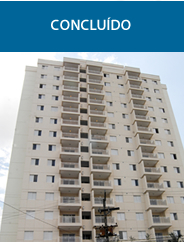
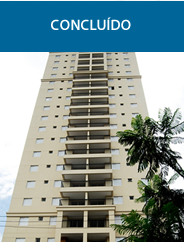
Atualização Fevereiro
Yang - Fotos e cronograma
Presence - Fotos e cronograma
Ituxi - Textos
Bertioga - Inclusão
Flecha - Inclusão

diff --git a/breveLancamento_int05.html b/breveLancamento_int05.html
@@ -2,7 +2,7 @@
 <html xmlns="http://www.w3.org/1999/xhtml">
 <head>
 <meta http-equiv="Content-Type" content="text/html; charset=utf-8" />
-<title>ARCHTEC | Breve Lançamento – Fagundes Filho</title>
+<title>ARCHTEC | Breve Lançamento – Flexa</title>
 <meta name="author" content="Webbox" />
 <meta name="description" content="ARCHTEC apresenta: Fagundes Filho, no bairro da Saúde (SP). Aptos com 2 dorms, há 800 metros do metrô São Judas. Rua Fagundes  Filho, 852, Saúde. " />
 <meta name="keywords" content="ARCHTECH, Archtech, ARQUITECH, Arquitech, engenharia, construção, construção civil, construções, construtora, incorporadora, incorporações, lançamento, lançamentos, empreendimento, empreendimentos, obra, obras, Fagundes Filho, Saúde, São Paulo, 2 dorms, metrô São Judas, São Judas, Rua Fagundes  Filho. " />
@@ -79,7 +79,7 @@ function MM_openBrWindow(theURL,winName,features) { //v2.0
 <p class="t12 cinza margem18-esq">A ARCHTECH está sempre inovando, com lançamentos que seguem tendências e novidades internacionais e dão um tom contemporâneo à construção civil no país. </p>
 <p class="t12 cinza margem18-esq">Confira o que vem por aí:</p>
 
-<p class="t25 azul-escuro" style="margin-top:30px">ITUXI</p>
+<p class="t25 azul-escuro" style="margin-top:30px">FLECHA</p>
 <div class="linha-vermelha" style="margin-top:-12px; margin-bottom:24px"></div>
 
 
@@ -87,21 +87,22 @@ function MM_openBrWindow(theURL,winName,features) { //v2.0
     <div><img src="images/titulos/titGaleria01.gif" width="382" height="27" alt="" /></div>
     <div id="main">
     <ul class="gallery clearfix">
-    <div class="box-gal"><img src="images/decos/img30.jpg" width="380" height="224" alt="" /></div>
+    <div class="box-gal"><img src="images/decos/img36.jpg" width="380" height="224" alt="" /></div>
     
     
     </ul>
     </div>
     
     
-    <p class="t10 cinza" style="margin-top:23px;"><span class="t12 negrito">SAÚDE - SP</span><br />
-1 e 2 dorms<br />
-350 metros do Metrô Saúde<br />
+    <p class="t10 cinza" style="margin-top:23px;"><span class="t12 negrito">JARDIM PRUDÊNCIA - SP</span><br />
+      2 dorms<br />
 <br>
-Rua Ituxi, 126 - Saúde</p>
+Rua das Flechas, 167
+Jd. Prudência
+</p>
 </div>
 <div class="desloca-dir" style="width:308px">
-	<div><img src="images/decos/img31.jpg" width="188" height="140" alt="" /></div>
+	<div><img src="images/decos/img35.jpg" width="188" height="140" alt="" /></div>
 <div style="height:170px"></div>
 <p class="t11 azul-escuro negrito" style="margin-top:10px"> </p>
 <p class="t11 cinza" style="margin-bottom:3px"> </p>
@@ -139,16 +140,16 @@ Rua Ituxi, 126 - Saúde</p>
     	<div><img src="images/titulos/titLocaliza01.jpg" width="382" height="24" alt="" /></div>
         <div class="mapa">
         
-        <iframe width="380" height="224" frameborder="0" scrolling="no" marginheight="0" marginwidth="0" src="https://www.google.com.br/maps/ms?msa=0&amp;msid=211801331599896846726.0004f7065f605e9a930e4&amp;ie=UTF8&amp;t=m&amp;ll=-23.618015,-46.642317&amp;spn=0.002202,0.004066&amp;z=17&amp;output=embed"></iframe>
+        <iframe src="https://www.google.com/maps/embed?pb=!1m18!1m12!1m3!1d7309.604804894548!2d-46.67218760000006!3d-23.647246499999984!2m3!1f0!2f0!3f0!3m2!1i1024!2i768!4f13.1!3m3!1m2!1s0x94ce507788210d67%3A0x57a47897b82ae6d0!2sR.+das+Flechas%2C+167+-+Vila+Santa+Catarina%2C+S%C3%A3o+Paulo+-+SP!5e0!3m2!1spt-BR!2sbr!4v1423162378153" width="380" height="224" frameborder="0" style="border:0"></iframe>
         
-        <div class="endMapa">Rua Ituxi, 126 – Saúde – São Paulo - SP</div>
+        <div class="endMapa">Rua das Flechas, 167 – Jardim Prudência – São Paulo - SP</div>
         </div>
     </div>
     
     <div class="desloca-dir" style="width:280px; margin-top:17px; padding-top:13px; padding-bottom:13px; padding-left:25px; padding-right:17px; background-color:#FFF; border:solid 1px #CDCDCD;">
     <p class="t14 cinza">ENTRE EM CONTATO:</p>
     
-    <iframe src="formularios/5_formularioContato.html" width="276px" height="262px" frameborder="0" scrolling="no"></iframe>
+    <iframe src="formularios/7_formularioContato.html" width="276px" height="262px" frameborder="0" scrolling="no"></iframe>
     
    	</div>
     

diff --git a/breveLancamento_int06.html b/breveLancamento_int06.html
@@ -2,7 +2,7 @@
 <html xmlns="http://www.w3.org/1999/xhtml">
 <head>
 <meta http-equiv="Content-Type" content="text/html; charset=utf-8" />
-<title>ARCHTEC | Breve Lançamento – Fagundes Filho</title>
+<title>ARCHTEC | Breve Lançamento – Bertioga</title>
 <meta name="author" content="Webbox" />
 <meta name="description" content="ARCHTEC apresenta: Fagundes Filho, no bairro da Saúde (SP). Aptos com 2 dorms, há 800 metros do metrô São Judas. Rua Fagundes  Filho, 852, Saúde. " />
 <meta name="keywords" content="ARCHTECH, Archtech, ARQUITECH, Arquitech, engenharia, construção, construção civil, construções, construtora, incorporadora, incorporações, lançamento, lançamentos, empreendimento, empreendimentos, obra, obras, Fagundes Filho, Saúde, São Paulo, 2 dorms, metrô São Judas, São Judas, Rua Fagundes  Filho. " />
@@ -79,7 +79,7 @@ function MM_openBrWindow(theURL,winName,features) { //v2.0
 <p class="t12 cinza margem18-esq">A ARCHTECH está sempre inovando, com lançamentos que seguem tendências e novidades internacionais e dão um tom contemporâneo à construção civil no país. </p>
 <p class="t12 cinza margem18-esq">Confira o que vem por aí:</p>
 
-<p class="t25 azul-escuro" style="margin-top:30px">ITUXI</p>
+<p class="t25 azul-escuro" style="margin-top:30px">BERTIOGA</p>
 <div class="linha-vermelha" style="margin-top:-12px; margin-bottom:24px"></div>
 
 
@@ -94,11 +94,12 @@ function MM_openBrWindow(theURL,winName,features) { //v2.0
     </div>
     
     
-    <p class="t10 cinza" style="margin-top:23px;"><span class="t12 negrito">SAÚDE - SP</span><br />
-1 e 2 dorms<br />
-350 metros do Metrô Saúde<br />
+    <p class="t10 cinza" style="margin-top:23px;"><span class="t12 negrito">PRAÇA DA ÁRVORE - SP</span><br />
+      2 DORMS <br />
+300 metros do Metrô Praça da Árvore<br />
 <br>
-Rua Ituxi, 126 - Saúde</p>
+Rua Bertioga,291 - Praça da Árvore
+</p>
 </div>
 <div class="desloca-dir" style="width:308px">
 	<div><img src="images/decos/img31.jpg" width="188" height="140" alt="" /></div>
@@ -139,16 +140,15 @@ Rua Ituxi, 126 - Saúde</p>
     	<div><img src="images/titulos/titLocaliza01.jpg" width="382" height="24" alt="" /></div>
         <div class="mapa">
         
-        <iframe width="380" height="224" frameborder="0" scrolling="no" marginheight="0" marginwidth="0" src="https://www.google.com.br/maps/ms?msa=0&amp;msid=211801331599896846726.0004f7065f605e9a930e4&amp;ie=UTF8&amp;t=m&amp;ll=-23.618015,-46.642317&amp;spn=0.002202,0.004066&amp;z=17&amp;output=embed"></iframe>
-        
-        <div class="endMapa">Rua Ituxi, 126 – Saúde – São Paulo - SP</div>
+<iframe src="https://www.google.com/maps/embed?pb=!1m18!1m12!1m3!1d3655.8200693967215!2d-46.63432390000003!3d-23.610785100000005!2m3!1f0!2f0!3f0!3m2!1i1024!2i768!4f13.1!3m3!1m2!1s0x94ce5a4c8826e06b%3A0x9a7ff4014ace0f06!2sR.+Bertioga%2C+291+-+Ch%C3%A1cara+Inglesa%2C+S%C3%A3o+Paulo+-+SP!5e0!3m2!1spt-BR!2sbr!4v1423225767701" width="380" height="224" frameborder="0" style="border:0"></iframe>        
+        <div class="endMapa">Rua Bertioga, 291 – Praça da Árvore – São Paulo - SP</div>
         </div>
     </div>
     
     <div class="desloca-dir" style="width:280px; margin-top:17px; padding-top:13px; padding-bottom:13px; padding-left:25px; padding-right:17px; background-color:#FFF; border:solid 1px #CDCDCD;">
     <p class="t14 cinza">ENTRE EM CONTATO:</p>
     
-    <iframe src="formularios/5_formularioContato.html" width="276px" height="262px" frameborder="0" scrolling="no"></iframe>
+    <iframe src="formularios/6_formularioContato.html" width="276px" height="262px" frameborder="0" scrolling="no"></iframe>
     
    	</div>
     

diff --git a/breveLancamento.html b/breveLancamento.html
@@ -67,17 +67,41 @@
 à construção civil no país.</p> 
 <p class="t12 cinza margem18-esq">Confira o que vem por aí:</p>
 <div title="" class="desloca-esq margem18-esq margem18-dir botao" style="width:175px; border:solid 1px #E5E5E5" onclick="location.href='breveLancamento_int03.html'">
-  <div><a href="breveLancamento_int04.html"><img src="images/decos/img28.jpg" width="175" height="220" alt="" /></a></div>
+  <div><a href="breveLancamento_int06.html"><img src="images/decos/img33.jpg" width="175" height="220" alt="" /></a></div>
     <div style="padding-top:7px; padding-bottom:7px; padding-left:10px; padding-right:10px">
-        <p class="t10 cinza negrito">SAÚDE | SP</p>
+        <p class="t10 cinza negrito">PRAÇA DA ÁRVORE | SP</p>
         <p class="t10 cinza">
-        2 e 3 DORMS <br />
-350 metros do Metrô Saúde<br />
-<br /><br />
+        2 DORMS <br />
+300 metros do Metrô Praça da Árvore<br />
+<br />
 
 
-        <div><a href="breveLancamento_int04.html"><img src="images/botoes/botSaibaMais02.png" width="82" height="18" alt="" /></a></div>
+        <div><a href="breveLancamento_int06.html"><img src="images/botoes/botSaibaMais02.png" width="82" height="18" alt="" /></a></div>
   </div>    
+</div>
+<div title="" class="desloca-esq margem18-dir botao" style="width:175px; border:solid 1px #E5E5E5" onclick="location.href='breveLancamento_int03.html'">
+  <div><a href="breveLancamento_int05.html"><img src="images/decos/img32.jpg" width="175" height="220" alt="" /></a></div>
+  <div style="padding-top:7px; padding-bottom:7px; padding-left:10px; padding-right:10px">
+    <p class="t10 cinza negrito">JD PRUDÊNCIA | SP</p>
+    <p class="t10 cinza"> 2 DORMS <br />
+      <br />
+      <br />
+      <br />
+    </p>
+    <div><a href="breveLancamento_int05.html"><img src="images/botoes/botSaibaMais02.png" width="82" height="18" alt="" /></a></div>
+  </div>
+</div>
+<div title="" class="desloca-esq  margem18-dir botao" style="width:175px; border:solid 1px #E5E5E5" onclick="location.href='breveLancamento_int03.html'">
+  <div><a href="breveLancamento_int04.html"><img src="images/decos/img34.jpg" width="175" height="220" alt="" /></a></div>
+  <div style="padding-top:7px; padding-bottom:7px; padding-left:10px; padding-right:10px">
+    <p class="t10 cinza negrito">SAÚDE | SP</p>
+    <p class="t10 cinza"> 1 e 2 DORMS <br />
+      350 metros do Metrô Saúde<br />
+      <br />
+      <br />
+    </p>
+    <div><a href="breveLancamento_int04.html"><img src="images/botoes/botSaibaMais02.png" width="82" height="18" alt="" /></a></div>
+  </div>
 </div>
 
 <div class="clear"></div>

diff --git a/Lancamento_int02.html b/Lancamento_int02.html
@@ -142,9 +142,20 @@ function MM_openBrWindow(theURL,winName,features) { //v2.0
 <ul class="gallery clearfix">
     
 <div class="pontoZero">
-<div class="anima" id="anima" style="display:none"><a href="images/galeria/presence/obra/129.jpg" rel="prettyPhoto[fotosObra]" title="Dezembro/14"><img src="images/botoes/b1_.png" alt="" width="153" height="18" usemap="#Map" border="0" />
+<div class="anima" id="anima" style="display:none"><a href="images/galeria/presence/obra/142.jpg" rel="prettyPhoto[fotosObra]" title="Janeiro/15"><img src="images/botoes/b1_.png" alt="" width="153" height="18" usemap="#Map" border="0" />
 </a>
 
+<a href="images/galeria/presence/obra/143.jpg" rel="prettyPhoto[fotosObra]" title="Janeiro/15"></a>
+<a href="images/galeria/presence/obra/144.jpg" rel="prettyPhoto[fotosObra]" title="Janeiro/15"></a>
+<a href="images/galeria/presence/obra/145.jpg" rel="prettyPhoto[fotosObra]" title="Janeiro/15"></a>
+<a href="images/galeria/presence/obra/146.jpg" rel="prettyPhoto[fotosObra]" title="Janeiro/15"></a>
+<a href="images/galeria/presence/obra/147.jpg" rel="prettyPhoto[fotosObra]" title="Janeiro/15"></a>
+<a href="images/galeria/presence/obra/148.jpg" rel="prettyPhoto[fotosObra]" title="Janeiro/15"></a>
+<a href="images/galeria/presence/obra/149.jpg" rel="prettyPhoto[fotosObra]" title="Janeiro/15"></a>
+<a href="images/galeria/presence/obra/150.jpg" rel="prettyPhoto[fotosObra]" title="Janeiro/15"></a>
+<a href="images/galeria/presence/obra/151.jpg" rel="prettyPhoto[fotosObra]" title="Janeiro/15"></a>
+
+<a href="images/galeria/presence/obra/129.jpg" rel="prettyPhoto[fotosObra]" title="Dezembro/14"></a>
 <a href="images/galeria/presence/obra/130.jpg" rel="prettyPhoto[fotosObra]" title="Dezembro/14"></a>
 <a href="images/galeria/presence/obra/131.jpg" rel="prettyPhoto[fotosObra]" title="Dezembro/14"></a>
 <a href="images/galeria/presence/obra/132.jpg" rel="prettyPhoto[fotosObra]" title="Dezembro/14"></a>
@@ -301,7 +312,7 @@ function MM_openBrWindow(theURL,winName,features) { //v2.0
 
 
     <map name="Map" id="Map">
-      <area shape="rect" coords="62,2,151,17" href="images/galeria/presence/obra/Cronograma_Dez14_Presence.png" rel="prettyPhoto[cronograma]" title="Cronograma Dezembro/14"/>
+      <area shape="rect" coords="62,2,151,17" href="images/galeria/presence/obra/Cronograma_Jan15_Presence.png" rel="prettyPhoto[cronograma]" title="Cronograma Janeiro/15"/>
     </map>
 
 

diff --git a/breveLancamento_int02.html b/breveLancamento_int02.html
@@ -143,9 +143,17 @@ Lazer completo em mais de 1.750 m&sup2; de terreno</p>
 <ul class="gallery clearfix">
     
 <div class="pontoZero">
-<div class="anima" id="anima" style="display:none"><a href="images/galeria/yang/obra/50.jpg" rel="prettyPhoto[fotosObra]" title="Dezembro/14"><img src="images/botoes/b1_.png" alt="" width="153" height="18" usemap="#Map" border="0" />
+<div class="anima" id="anima" style="display:none"><a href="images/galeria/yang/obra/59.jpg" rel="prettyPhoto[fotosObra]" title="Janeiro/15"><img src="images/botoes/b1_.png" alt="" width="153" height="18" usemap="#Map" border="0" />
 </a>
 
+<a href="images/galeria/yang/obra/60.jpg" rel="prettyPhoto[fotosObra]" title="Janeiro/15"></a>
+<a href="images/galeria/yang/obra/61.jpg" rel="prettyPhoto[fotosObra]" title="Janeiro/15"></a>
+<a href="images/galeria/yang/obra/62.jpg" rel="prettyPhoto[fotosObra]" title="Janeiro/15"></a>
+<a href="images/galeria/yang/obra/63.jpg" rel="prettyPhoto[fotosObra]" title="Janeiro/15"></a>
+<a href="images/galeria/yang/obra/64.jpg" rel="prettyPhoto[fotosObra]" title="Janeiro/15"></a>
+<a href="images/galeria/yang/obra/65.jpg" rel="prettyPhoto[fotosObra]" title="Janeiro/15"></a>
+
+<a href="images/galeria/yang/obra/50.jpg" rel="prettyPhoto[fotosObra]" title="Dezembro/14"></a>
 <a href="images/galeria/yang/obra/51.jpg" rel="prettyPhoto[fotosObra]" title="Dezembro/14"></a>
 <a href="images/galeria/yang/obra/52.jpg" rel="prettyPhoto[fotosObra]" title="Dezembro/14"></a>
 <a href="images/galeria/yang/obra/53.jpg" rel="prettyPhoto[fotosObra]" title="Dezembro/14"></a>
@@ -210,7 +218,7 @@ Lazer completo em mais de 1.750 m&sup2; de terreno</p>
 <a href="images/galeria/yang/obra/07.jpg" rel="prettyPhoto[fotosObra]" title="Maio/14"></a>
 
     <map name="Map" id="Map">
-      <area shape="rect" coords="62,2,151,17" href="images/galeria/yang/obra/Cronograma_Dez14_Yang.png" rel="prettyPhoto[cronograma]" title="Cronograma Dezembro/14"/>
+      <area shape="rect" coords="62,2,151,17" href="images/galeria/yang/obra/Cronograma_Jan15_Yang.png" rel="prettyPhoto[cronograma]" title="Cronograma Janeiro/15"/>
     </map>
 
 

diff --git a/prontoParaMorar.html b/prontoParaMorar.html
@@ -93,7 +93,7 @@
 <div class="desloca-esq" style="width:151px"><img src="images/decos/img7.png" width="151" height="26" alt="" /></div>
 <div class="desloca-esq botao" title="" style="width:204px; margin-right:20px" onclick="location.href='breveLancamento.html'"><img src="images/decos/img13.jpg" width="204" height="263" alt="" /><div style="margin-top:13px"><a href="breveLancamento.html"><img src="images/botoes/botSaibaMais05.png" width="81" height="18" alt="" /></a></div></div>
 <div class="desloca-esq botao" title="" style="width:204px; margin-right:17px" onclick="location.href='lancamento.html'"><img src="images/decos/img8.jpg" width="204" height="263" alt="" /><div style="margin-top:13px"><a href="lancamento.html"><img src="images/botoes/botSaibaMais03.png" width="81" height="18" alt="" /></a></div></div>
-<div class="desloca-esq botao" title="" style="width:204px" onclick="location.href='concluido.html'"><img src="images/decos/img15.jpg" width="204" height="263" alt="" /><div style="margin-top:13px"><a href="concluido.html"><img src="images/botoes/botSaibaMais06.png" width="81" height="18" alt="" /></a></div></div>
+<div class="desloca-esq botao" title="" style="width:204px" onclick="location.href='concluido.html'"><img src="images/decos/img10.jpg" width="204" height="263" alt="" /><div style="margin-top:13px"><a href="concluido.html"><img src="images/botoes/botSaibaMais06.png" width="81" height="18" alt="" /></a></div></div>
 <div class="clear"></div>
 
 

diff --git a/formularios/6_formularioContato.html b/formularios/6_formularioContato.html
@@ -1,0 +1,30 @@
+<!DOCTYPE html PUBLIC "-//W3C//DTD XHTML 1.0 Transitional//EN" "http://www.w3.org/TR/xhtml1/DTD/xhtml1-transitional.dtd">
+<html xmlns="http://www.w3.org/1999/xhtml">
+<head>
+<meta http-equiv="Content-Type" content="text/html; charset=Iso-8859-1" />
+<title></title>
+<link href="../css/style.css" rel="stylesheet" type="text/css" />
+</head>
+
+<body>
+<form id="frmEntreContato" name="frmEntreContato" method="post" action="enviaemailEmpreendimentos.asp?tipo=play">
+      <label for="txtNome">Nome<br />
+      <input type="text" name="txtNome" id="txtNome" class="campo01" /></label>
+      
+      <label for="txtTel">Telefone<br />
+      <input type="text" name="txtTel" id="txtTel" class="campo01" /></label>
+      
+      <label for="txtMail">E-mail<br />
+      <input type="text" name="txtMail" id="txtMail" class="campo01" /></label>
+      
+      <label for="txtInfo">Informa&ccedil;&otilde;es<br />
+        <textarea name="txtInfo" id="txtInfo" class="campo02"></textarea>
+      </label>
+      
+      <input name="txtEmpreendimento" id="txtEmpreendimento" type="hidden" value="BERTIOGA" />
+      
+      <input type="image" src="../images/botoes/botEnviar.jpg" name="button" id="button" value="Submit" />
+      
+</form>
+</body>
+</html>

diff --git a/formularios/7_formularioContato.html b/formularios/7_formularioContato.html
@@ -1,0 +1,30 @@
+<!DOCTYPE html PUBLIC "-//W3C//DTD XHTML 1.0 Transitional//EN" "http://www.w3.org/TR/xhtml1/DTD/xhtml1-transitional.dtd">
+<html xmlns="http://www.w3.org/1999/xhtml">
+<head>
+<meta http-equiv="Content-Type" content="text/html; charset=Iso-8859-1" />
+<title></title>
+<link href="../css/style.css" rel="stylesheet" type="text/css" />
+</head>
+
+<body>
+<form id="frmEntreContato" name="frmEntreContato" method="post" action="enviaemailEmpreendimentos.asp?tipo=play">
+      <label for="txtNome">Nome<br />
+      <input type="text" name="txtNome" id="txtNome" class="campo01" /></label>
+      
+      <label for="txtTel">Telefone<br />
+      <input type="text" name="txtTel" id="txtTel" class="campo01" /></label>
+      
+      <label for="txtMail">E-mail<br />
+      <input type="text" name="txtMail" id="txtMail" class="campo01" /></label>
+      
+      <label for="txtInfo">Informa&ccedil;&otilde;es<br />
+        <textarea name="txtInfo" id="txtInfo" class="campo02"></textarea>
+      </label>
+      
+      <input name="txtEmpreendimento" id="txtEmpreendimento" type="hidden" value="FLEXA" />
+      
+      <input type="image" src="../images/botoes/botEnviar.jpg" name="button" id="button" value="Submit" />
+      
+</form>
+</body>
+</html>

diff --git a/empreendimentos.html b/empreendimentos.html
@@ -88,7 +88,7 @@
 </div>
 </div>
 
-<div class="desloca-esq botao" title="" style="width:185px; border:solid 1px #E5E5E5" onclick="loction.href='concluido.html'"> <a href="concluido.html"><img src="images/decos/img25.jpg" width="185" height="242" alt="" /></a>
+<div class="desloca-esq botao" title="" style="width:185px; border:solid 1px #E5E5E5" onclick="loction.href='concluido.html'"> <a href="concluido.html"><img src="images/decos/img25.jpg" width="184" height="242" alt="" /></a>
 <div style="padding-top:7px; padding-bottom:7px; padding-left:10px; padding-right:10px">
 <p class="t10 cinza" style="margin-top:5px">Imprimindo em suas obras um ritmo de trabalho ágil e acelerado...</p>
 <div style="margin-top:13px"><a href="concluido.html"><img src="images/botoes/botSaibaMais06.png" width="81" height="18" alt="" /></a></div>
